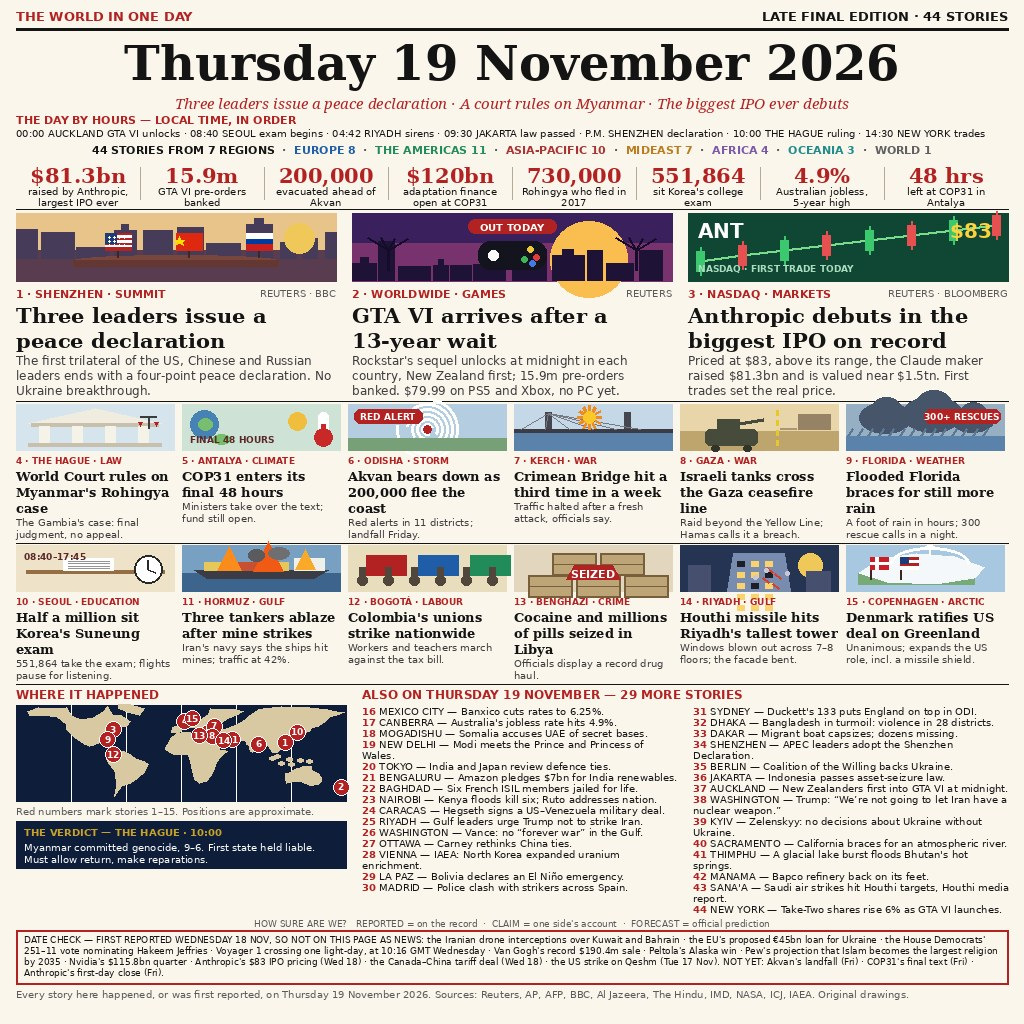
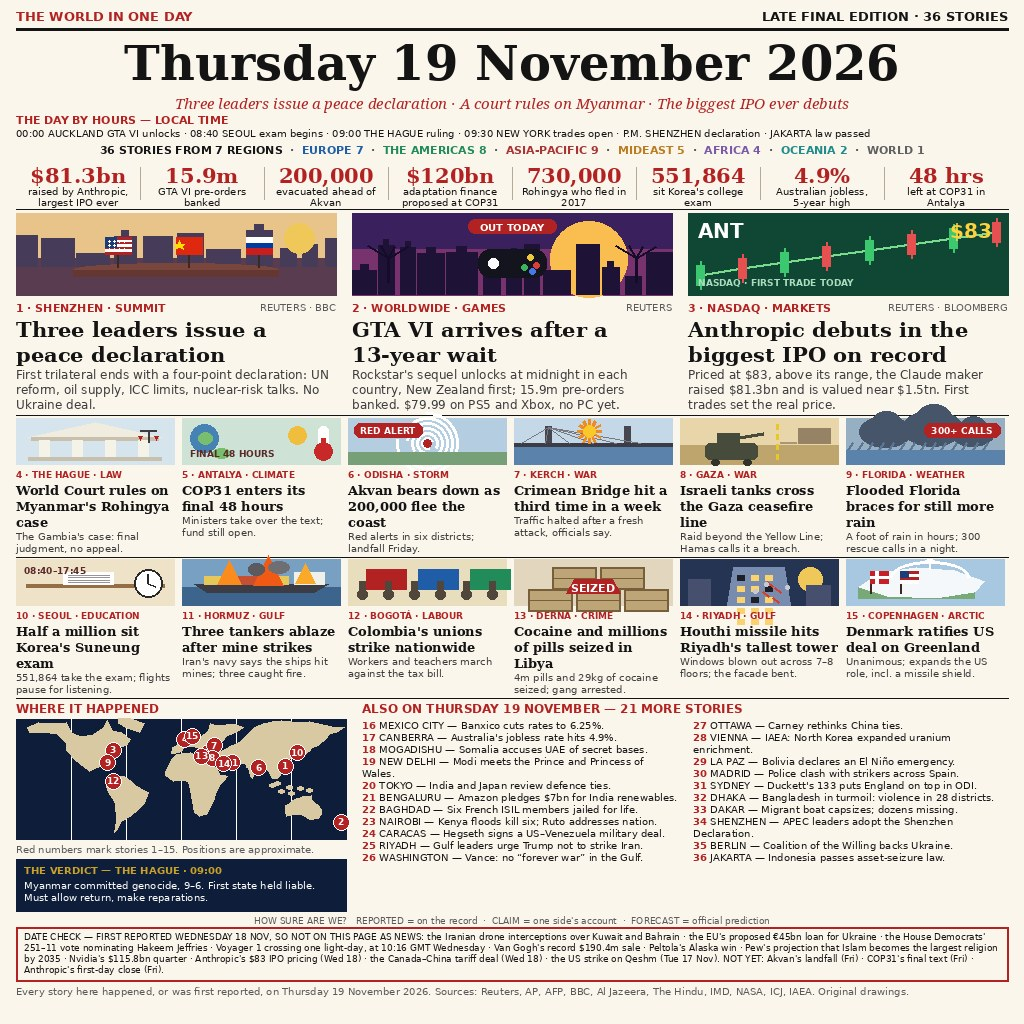
news-image-20261119: 36-story late final edition, fixed — Thursday 19 November 2026

diff --git a/compose.py b/compose.py
@@ -281,7 +281,7 @@ def ill_florida(d, x, y, w, h):
     d.rectangle([x, y + h - 14, x + w, y + h], fill=(90, 130, 170))
     d.rounded_rectangle([x + w - 80, y + 5, x + w - 4, y + 19], radius=6,
                         fill=(178, 34, 34))
-    centered(d, x + w - 42, y + 7, "300+ RESCUES", fb(SANS_B, 9), WHITE)
+    centered(d, x + w - 42, y + 7, "300+ CALLS", fb(SANS_B, 9), WHITE)
 
 
 def ill_suneung(d, x, y, w, h):
@@ -409,7 +409,7 @@ CONTINENTS = {
 # story number -> (lon, lat) for map pins (stories 1-13)
 PINS = {1: (114, 22), 2: (175, -41), 3: (-74, 40), 4: (4, 52), 5: (30, 37),
         6: (85, 20), 7: (36, 45), 8: (34, 31), 9: (-80, 26), 10: (127, 37),
-        11: (56, 26), 12: (-74, 5), 13: (20, 32)}
+        11: (56, 26), 12: (-74, 5), 13: (22.6, 32.8)}
 
 
 def draw_map(d, x, y, w, h, bg, land, pin_fill=RED):
@@ -914,9 +914,9 @@ LEADS2 = [
     dict(n=1, place="SHENZHEN", topic="SUMMIT", region="ASIA-PACIFIC",
          art="summit", src="REUTERS · BBC",
          head="Three leaders issue a peace declaration",
-         deck="The first trilateral of the US, Chinese and Russian leaders "
-              "ends with a four-point peace declaration. No Ukraine "
-              "breakthrough."),
+         deck="First trilateral ends with a four-point declaration: UN "
+              "reform, oil supply, ICC limits, nuclear-risk talks. No "
+              "Ukraine deal."),
     dict(n=2, place="WORLDWIDE", topic="GAMES", region="WORLD",
          art="gta", src="REUTERS",
          head="GTA VI arrives after a 13-year wait",
@@ -943,7 +943,7 @@ CARDS2 = [
     dict(n=6, place="ODISHA", topic="STORM", region="ASIA-PACIFIC",
          art="cyclone", src="IMD",
          head="Akvan bears down as 200,000 flee the coast",
-         deck="Red alerts in 11 districts; landfall Friday."),
+         deck="Red alerts in six districts; landfall Friday."),
     dict(n=7, place="KERCH", topic="WAR", region="EUROPE",
          art="bridge", src="BBC · KYIV",
          head="Crimean Bridge hit a third time in a week",
@@ -963,15 +963,15 @@ CARDS2 = [
     dict(n=11, place="HORMUZ", topic="GULF", region="MIDEAST",
          art="hormuz", src="REUTERS · CLAIM",
          head="Three tankers ablaze after mine strikes",
-         deck="Iran's navy says the ships hit mines; traffic at 42%."),
+         deck="Iran's navy says the ships hit mines; three caught fire."),
     dict(n=12, place="BOGOTÁ", topic="LABOUR", region="THE AMERICAS",
          art="colombia", src="AFP",
          head="Colombia's unions strike nationwide",
          deck="Workers and teachers march against the tax bill."),
-    dict(n=13, place="BENGHAZI", topic="CRIME", region="AFRICA",
+    dict(n=13, place="DERNA", topic="CRIME", region="AFRICA",
          art="benghazi", src="AFP",
          head="Cocaine and millions of pills seized in Libya",
-         deck="Officials display a record drug haul."),
+         deck="4m pills and 29kg of cocaine seized; gang arrested."),
     dict(n=14, place="RIYADH", topic="GULF", region="MIDEAST",
          art="tower", src="REUTERS · JPOST",
          head="Houthi missile hits Riyadh's tallest tower",
@@ -1027,7 +1027,7 @@ NUMBERS2 = [
     ("$81.3bn", "raised by Anthropic, largest IPO ever"),
     ("15.9m", "GTA VI pre-orders banked"),
     ("200,000", "evacuated ahead of Akvan"),
-    ("$120bn", "adaptation finance open at COP31"),
+    ("$120bn", "adaptation finance proposed at COP31"),
     ("730,000", "Rohingya who fled in 2017"),
     ("551,864", "sit Korea's college exam"),
     ("4.9%", "Australian jobless, 5-year high"),
@@ -1035,9 +1035,8 @@ NUMBERS2 = [
 ]
 
 TIMELINE = ("00:00 AUCKLAND GTA VI unlocks \u00b7 08:40 SEOUL exam begins "
-            "\u00b7 04:42 RIYADH sirens \u00b7 09:30 JAKARTA law passed "
-            "\u00b7 P.M. SHENZHEN declaration \u00b7 10:00 THE HAGUE "
-            "ruling \u00b7 14:30 NEW YORK trades")
+            "\u00b7 09:00 THE HAGUE ruling \u00b7 09:30 NEW YORK trades open "
+            "\u00b7 P.M. SHENZHEN declaration \u00b7 JAKARTA law passed")
 
 DATE_CHECK2 = ("DATE CHECK \u2014 FIRST REPORTED WEDNESDAY 18 NOV, SO NOT ON "
     "THIS PAGE AS NEWS: the Iranian drone interceptions over Kuwait and "
@@ -1088,7 +1087,7 @@ def region_strip(d, x, y, w, total_label, regions):
 
 
 def timeline_strip(d, x, y, w):
-    d.text((x, y), "THE DAY BY HOURS \u2014 LOCAL TIME, IN ORDER",
+    d.text((x, y), "THE DAY BY HOURS \u2014 LOCAL TIME",
            font=fb(SANS_B, 11), fill=RED)
     d.text((x, y + 14), TIMELINE, font=fb(SANS, 10), fill=INK)
     return y + 28
@@ -1140,7 +1139,7 @@ def briefs_block_v2(d, x, y, w, briefs, header, row_h=12):
 
 def verdict_box(d, x, y, w, h=52):
     d.rectangle([x, y, x + w, y + h], fill=NAVY)
-    d.text((x + 8, y + 5), "THE VERDICT \u2014 THE HAGUE \u00b7 10:00",
+    d.text((x + 8, y + 5), "THE VERDICT \u2014 THE HAGUE \u00b7 09:00",
            font=fb(SANS_B, 10), fill=GOLD)
     vf = fb(SANS, 10)
     ly = y + 20

diff --git a/README.md b/README.md
@@ -11,7 +11,7 @@ one image that sums up 19 November 2026's world news.
 ## The image
 
 A newspaper front page in one 1024×1024 image. The masthead names the day
-— **THURSDAY 19 NOVEMBER 2026** — and 44 stories cover it:
+— **THURSDAY 19 NOVEMBER 2026** — and 36 stories cover it:
 
 - **Lead:** Trump, Xi and Putin issue a four-point peace declaration, Shenzhen
 - **GTA VI arrives after a 13-year wait** — midnight rollout, 15.9m pre-orders
@@ -22,13 +22,16 @@ A newspaper front page in one 1024×1024 image. The masthead names the day
   deal on Greenland** · **COP31 enters its final 48 hours** · **Cyclone Akvan
   bears down on Odisha** · **Crimean Bridge hit a third time** · **Israeli
   tanks cross the Gaza ceasefire line** · **Three tankers ablaze in the Strait
-  of Hormuz** · and 29 more stories, with a DATE CHECK box for what was first
+  of Hormuz** · and 21 more stories, with a DATE CHECK box for what was first
   reported on Wednesday 18 November, a day-by-hours timeline, and a verdict
   box on the Hague ruling.
 
-This is the late final edition: it carries the summit's evening outcome (the
-four-point peace declaration), the PIF Tower strike, and the Greenland
-ratification — all first reported on Thursday 19 November.
+This is the late final edition, revised: it carries the summit's evening
+outcome (the four-point peace declaration, with the four points named), the
+PIF Tower strike, and the Greenland ratification — all first reported on
+Thursday 19 November — with the timeline, the Derna seizure, the Akvan
+alerts, the Hormuz deck, the Florida badge and the COP31 figure corrected
+against the sources.
 
 Every illustration is a flat drawing made for this page — no photographs, no
 recognisable faces, no hands — and every word is real rendered text drawn by
@@ -38,6 +41,7 @@ recognisable faces, no hands — and every word is real rendered text drawn by
 
 `main.py` (standard library only) copies `image.jpg` to
 `/output/entry.png`. It writes identical bytes on every run and needs no
-network. `python3 compose.py` rebuilds `image.jpg` from scratch with Pillow
-— the late final edition, 44 stories. `python3 compose.py D2` builds the
-36-story variant instead; `python3 compose.py A` rebuilds the v1 page.
+network. `python3 compose.py D2` rebuilds `image.jpg` from scratch with
+Pillow — the 36-story late final edition, byte-identically.
+`python3 compose.py` builds the 44-story variant instead;
+`python3 compose.py A` rebuilds the v1 page.
